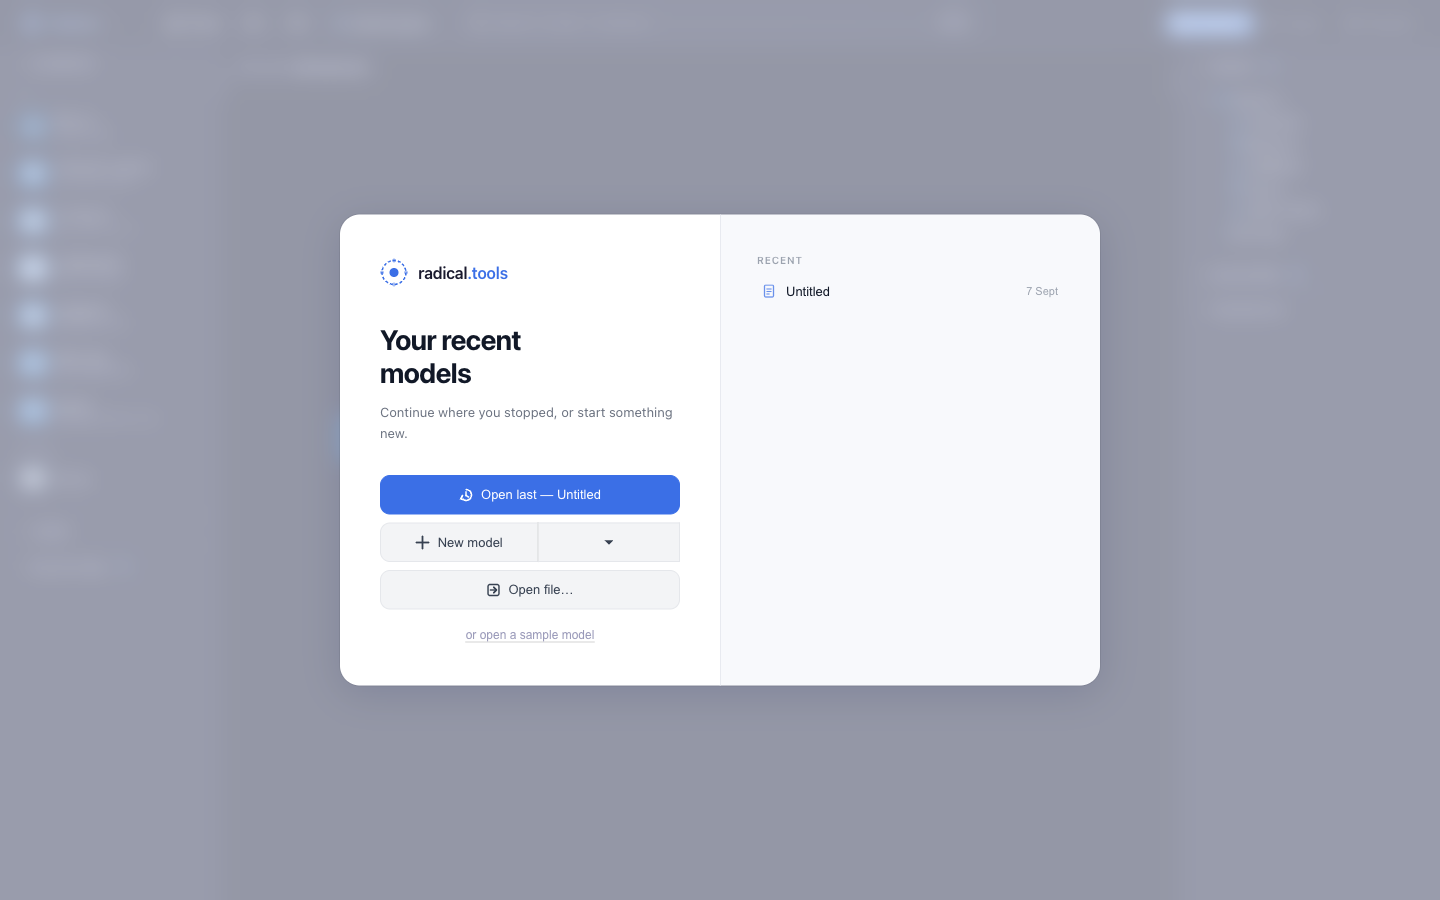
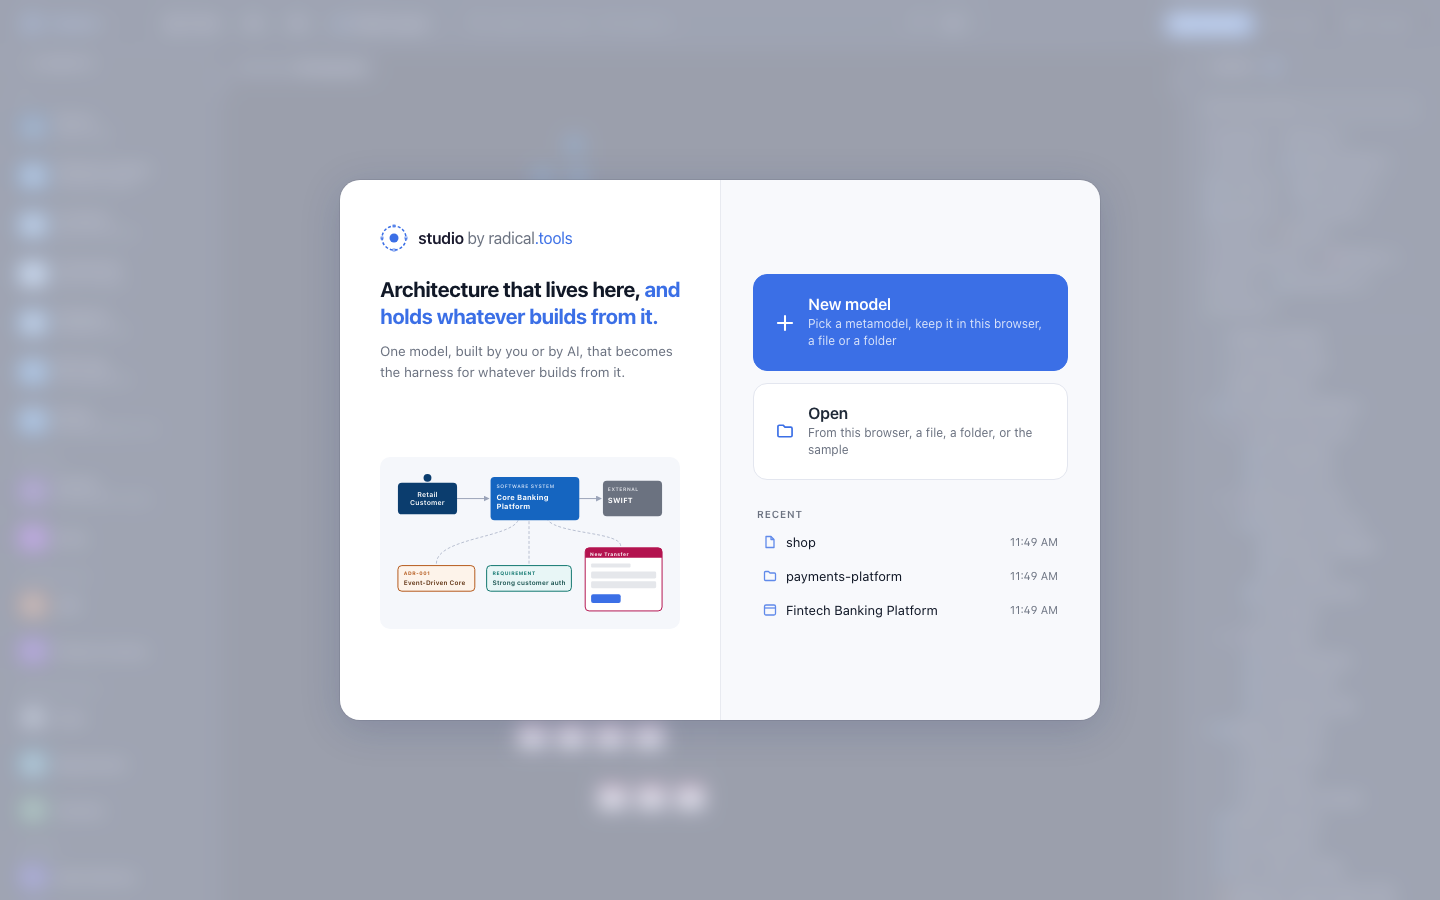
docs: welcome screen, model storage and Models dialog in the manual
New screenshots of the welcome screen and the Models dialog (light and
dark, 1440×900), and the manual's Getting started and Models & files
sections rewritten for the two-step welcome, file storage and the
one-list dialog.

diff --git a/apps/web/manual.html b/apps/web/manual.html
@@ -122,18 +122,18 @@
         <p>
           Radical.Tools runs in the browser at <a href="https://studio.radical.tools" target="_blank" rel="noopener">studio.radical.tools</a>
           — no account, nothing uploaded — or as a desktop app (see <a href="#vscode">local install</a>).
-          On first launch you land on the <strong>Welcome screen</strong>:
+          On first launch you land on the <strong>Welcome screen</strong>. It asks one thing first — a new model or an existing one — and the details come in the next step:
         </p>
         <ul>
-          <li><strong>New model</strong> — pick the metamodel first: <em>C4</em>, <em>C4 + DDD</em> (adds Domains) or <em>C4 + DDD + Governance</em> (adds ADRs, fitness functions, needs, requirements and blueprints). You can change it later in the metamodel editor.</li>
-          <li><strong>Open file</strong> — a <code>.radical</code> / <code>.json</code> model from disk.</li>
-          <li><strong>Load the sample</strong> — the <em>Fintech Banking Platform</em> used throughout this guide: 65 elements — architecture, ADRs and fitness functions, the needs behind it (a regulation, a product brief and a client's feedback), the EARS requirements derived from them, Gherkin scenarios and 13 UI mockups with wireframes in three screen flows — 15 views of every kind, four sequences, four milestones and a ready-made presentation.</li>
-          <li><strong>Recent</strong> — models you already have in this browser.</li>
+          <li><strong>New model</strong> — pick the metamodel (<em>C4 + DDD + Governance</em> is preselected; <em>C4</em> and <em>C4 + DDD</em> are in the list, and the metamodel editor changes it later) and where to keep the model: <em>in this browser</em>, <em>in a file</em> (one <code>.radical</code> file, every change saved to it) or <em>in a folder</em> (Markdown files, see <a href="#documents">Models &amp; files</a>). The choice of storage is remembered. Once an AI provider is set up, <em>Create with Radical Forge</em> starts the model from a description instead.</li>
+          <li><strong>Open</strong> — a recent model, the ones kept in this browser, a file, a folder, a Structurizr DSL workspace or the sample.</li>
+          <li><strong>Try the sample</strong> — the <em>Fintech Banking Platform</em> used throughout this guide: 65 elements — architecture, ADRs and fitness functions, the needs behind it (a regulation, a product brief and a client's feedback), the EARS requirements derived from them, Gherkin scenarios and 13 UI mockups with wireframes in three screen flows — 15 views of every kind, four sequences, four milestones and a ready-made presentation. A first visit offers it right under the two choices.</li>
+          <li><strong>Recent</strong> — your last three models, one click away; <em>Open</em> lists more.</li>
         </ul>
         <figure class="doc-shot">
-          <img class="shot-light" src="screenshots/welcome-light.png" alt="Welcome screen: New model with metamodel picker, Open file, Load sample, recent models" loading="lazy" />
-          <img class="shot-dark" src="screenshots/welcome-dark.png" alt="Welcome screen: New model with metamodel picker, Open file, Load sample, recent models" loading="lazy" />
-          <figcaption>The Welcome screen. Loading the sample is the fastest way to see every feature in this guide.</figcaption>
+          <img class="shot-light" src="screenshots/welcome-light.png" alt="Welcome screen: New model and Open, with the three most recent models below" loading="lazy" />
+          <img class="shot-dark" src="screenshots/welcome-dark.png" alt="Welcome screen: New model and Open, with the three most recent models below" loading="lazy" />
+          <figcaption>The Welcome screen. The sample is the fastest way to see every feature in this guide.</figcaption>
         </figure>
         <div class="doc-tip">
           <strong>Tip:</strong> a deep link such as <code>studio.radical.tools/#/m/designer/v/canvas</code> skips the Welcome screen and opens the last active model directly. See <a href="#links">Deep links</a>.
@@ -165,18 +165,21 @@
       <section class="doc-section" id="documents">
         <h2>Models &amp; files</h2>
         <p>
-          A model is a <em>document</em>. Open <em>Radical menu → Manage models…</em> to see them grouped by where they live:
+          A model is a <em>document</em>, kept in one of three places:
         </p>
         <ul>
-          <li><strong>Local storage</strong> — kept in this browser. Create with <em>+ New local model</em> (choose the metamodel), rename, delete, or convert with <em>Save as file…</em> / <em>Save as folder…</em>.</li>
-          <li><strong>Files</strong> — a single <code>.radical</code> JSON file on disk (desktop app).</li>
-          <li><strong>Folders</strong> — a <strong>Markdown folder</strong>: one <code>.md</code> per element with YAML front-matter, nested directories for containment, JSON sidecars for layout, views and relations. Diff-friendly and readable without the app. Works in the desktop app and, in Chromium browsers, via the File System Access API (you may be asked to <em>Reconnect</em> a folder after a reload).</li>
+          <li><strong>This browser</strong> — browser storage. Nothing to pick; export a file to share it.</li>
+          <li><strong>A file</strong> — a single <code>.radical</code> JSON file on disk. In the desktop app and in Chromium browsers (File System Access API) every change is saved back to the file; other browsers can only import and download one.</li>
+          <li><strong>A folder</strong> — a <strong>Markdown folder</strong>: one <code>.md</code> per element with YAML front-matter, nested directories for containment, JSON sidecars for layout, views and relations. Diff-friendly and readable without the app. Works in the desktop app and in Chromium browsers.</li>
         </ul>
-        <p>Every change is <strong>autosaved</strong> (a few hundred milliseconds after you stop editing) to wherever the document lives. <em>Import Structurizr DSL…</em> converts a <code>.dsl</code> workspace into a new local model.</p>
+        <p>
+          <em>Radical menu → Manage models…</em> lists every model on one list, the last used first, with a search box and a filter by place (<em>All</em>, <em>Browser</em>, <em>Files</em>, <em>Folders</em>). Click a row to switch to it. Its <em>⋯</em> menu renames it, moves the open model to a file or a folder, and deletes it (a file or folder is only removed from the list; it stays on disk). <em>+ New model</em> and <em>Open…</em> are the same steps as on the Welcome screen; <em>Open… → Structurizr DSL…</em> converts a <code>.dsl</code> workspace into a new model.
+        </p>
+        <p>Every change is <strong>autosaved</strong> (a few hundred milliseconds after you stop editing) to wherever the document lives. In the browser, a file or folder needs access granted again after a reload: click it on the Welcome screen, or <em>Reconnect…</em> on its row.</p>
         <figure class="doc-shot">
-          <img class="shot-light" src="screenshots/documents-light.png" alt="Models dialog listing local, file and folder backed models with Rename, Save as file, Save as folder and Delete actions" loading="lazy" />
-          <img class="shot-dark" src="screenshots/documents-dark.png" alt="Models dialog listing local, file and folder backed models with Rename, Save as file, Save as folder and Delete actions" loading="lazy" />
-          <figcaption>The Models dialog. The badge on each row tells you where the model is stored.</figcaption>
+          <img class="shot-light" src="screenshots/documents-light.png" alt="Models dialog: one list of browser, file and folder models with search, a filter by place and a menu per row" loading="lazy" />
+          <img class="shot-dark" src="screenshots/documents-dark.png" alt="Models dialog: one list of browser, file and folder models with search, a filter by place and a menu per row" loading="lazy" />
+          <figcaption>The Models dialog. The icon and the line under each name tell you where the model is kept.</figcaption>
         </figure>
         <div class="doc-tip">
           <strong>Desktop:</strong> launch with <code>radical --file path/to/model.radical</code> (or the <code>RADICAL_FILE</code> environment variable) and the app reloads whenever that file changes on disk — handy next to a text editor or a Git checkout.
@@ -563,7 +566,7 @@
       <section class="doc-section" id="forge">
         <h2>Radical Forge</h2>
         <p>
-          <strong>Radical Forge</strong> (<em>Start with Radical Forge</em> on the welcome screen, or <em>Radical menu → Radical Forge…</em>) turns a plain-language description of a system into a model, one reviewable stage at a time: <strong>Requirements</strong> (EARS) → <strong>Domain model</strong> → <strong>Fitness functions</strong> → <strong>Gherkin scenarios</strong> → <strong>State machines</strong> → <strong>Mockups</strong> → <strong>C4 model</strong>. Each stage may first ask a few clarifying questions, suggests matching Hub concepts, and can be regenerated before you continue.
+          <strong>Radical Forge</strong> (<em>New model → Create with Radical Forge</em> on the welcome screen, or <em>Radical menu → Radical Forge…</em>) turns a plain-language description of a system into a model, one reviewable stage at a time: <strong>Requirements</strong> (EARS) → <strong>Domain model</strong> → <strong>Fitness functions</strong> → <strong>Gherkin scenarios</strong> → <strong>State machines</strong> → <strong>Mockups</strong> → <strong>C4 model</strong>. Each stage may first ask a few clarifying questions, suggests matching Hub concepts, and can be regenerated before you continue.
         </p>
         <ul>
           <li><strong>The description is kept as a <a href="#properties">Need</a>.</strong> When you press <em>Start</em>, the text is saved in the model as a need (named after its first line), and the Requirements stage links every requirement it writes to it with <em>Derives from</em>. If the model already has needs, <em>Start from</em> on the Description step loads one instead, and your edits are saved back to it. Going back and starting again updates the same need instead of adding a second one.</li>
@@ -606,7 +609,7 @@ codex mcp add radical-folder -- node /path/to/radical.tools/apps/mcp/dist/index.
         <p>The folder may also be relative to the directory the client starts the server in. A missing or empty folder becomes a new, empty model; <code>--metamodel c4</code>, <code>c4-ddd</code> or <code>governance</code> picks its metamodel (default <code>governance</code>, C4 + DDD + Governance). A folder with other files and no <code>radical.md</code> is refused, so the server never writes into a folder that isn't a model.</p>
         <h3>Working alongside Studio</h3>
         <p>
-          Open the <em>same</em> folder in Studio: in the desktop app, or in a Chromium browser through <em>Manage models…</em> (the browser asks for folder access; a model kept only in browser storage cannot be reached by the server). Studio reloads the folder when the agent changes it, so new elements appear on the open canvas. Then ask the agent to call <code>get_model_summary</code> first; the server's instructions tell it to as well.
+          Open the <em>same</em> folder in Studio: in the desktop app, or in a Chromium browser through <em>Open → Folder…</em> (the browser asks for folder access; a model kept only in browser storage cannot be reached by the server). Studio reloads the folder when the agent changes it, so new elements appear on the open canvas. Then ask the agent to call <code>get_model_summary</code> first; the server's instructions tell it to as well.
         </p>
         <div class="doc-tip">
           <strong>Tip:</strong> while the agent writes, keep Studio in <a href="#presenting">Viewer</a>. A change spans several files and the two processes share no lock: the server refuses to write over a file that changed since it read it, but editing the same folder from both sides at once can still race.

diff --git a/docs/IMPROVEMENTS.md b/docs/IMPROVEMENTS.md
@@ -450,10 +450,17 @@ a unit or e2e test:
   into a container does not re-parent it and nothing highlights; "everything
   is undoable" did not hold (bug 8, fixed in #118).
 - *Getting started:* the Welcome screen shows on every browser load without a
-  route, never in desktop or VS Code; New model uses the metamodel and the
-  storage named under it (C4 + DDD + Governance, in this browser by default;
-  a Markdown folder where the browser supports it, remembered per browser);
-  Start with Radical Forge shows only once an AI provider is set up.
+  route, never in desktop or VS Code. It offers New model and Open; New model
+  then asks for the metamodel (C4 + DDD + Governance by default) and where to
+  keep the model (this browser, a file or a Markdown folder; file and folder
+  only where the browser can write them back, the choice remembered per
+  browser), with Create with Radical Forge only once an AI provider is set
+  up. Open lists recent models, then this browser's models, a file, a folder,
+  a Structurizr DSL workspace and the sample; a first visit also offers the
+  sample under the two choices. In Chromium a file is kept, not imported:
+  changes are saved back to it, and after a reload it needs access granted
+  again. Manage models shows every model on one list (search, filter by
+  place, a ⋯ menu per row) and reuses the same New model / Open steps.
 - *Properties & governance:* the EARS subject comes from the element that
   *satisfies* the requirement, not the one it *constrains*; requirements have
   no status or MoSCoW priority; fitness functions have no trigger, automated
